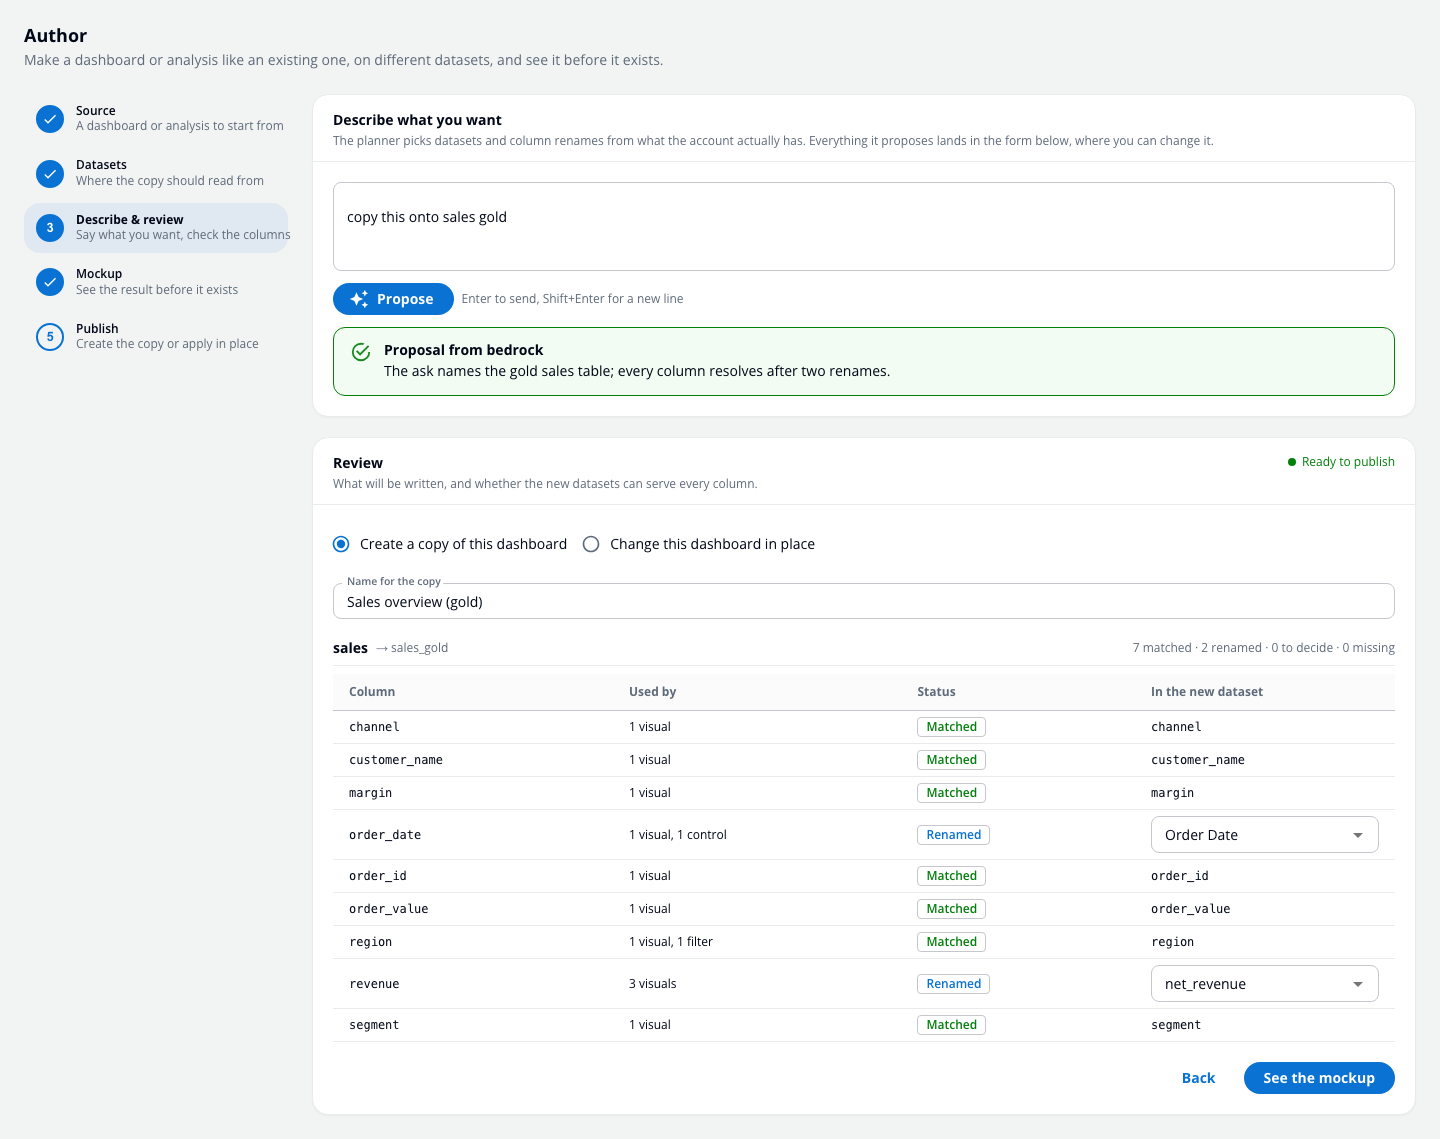
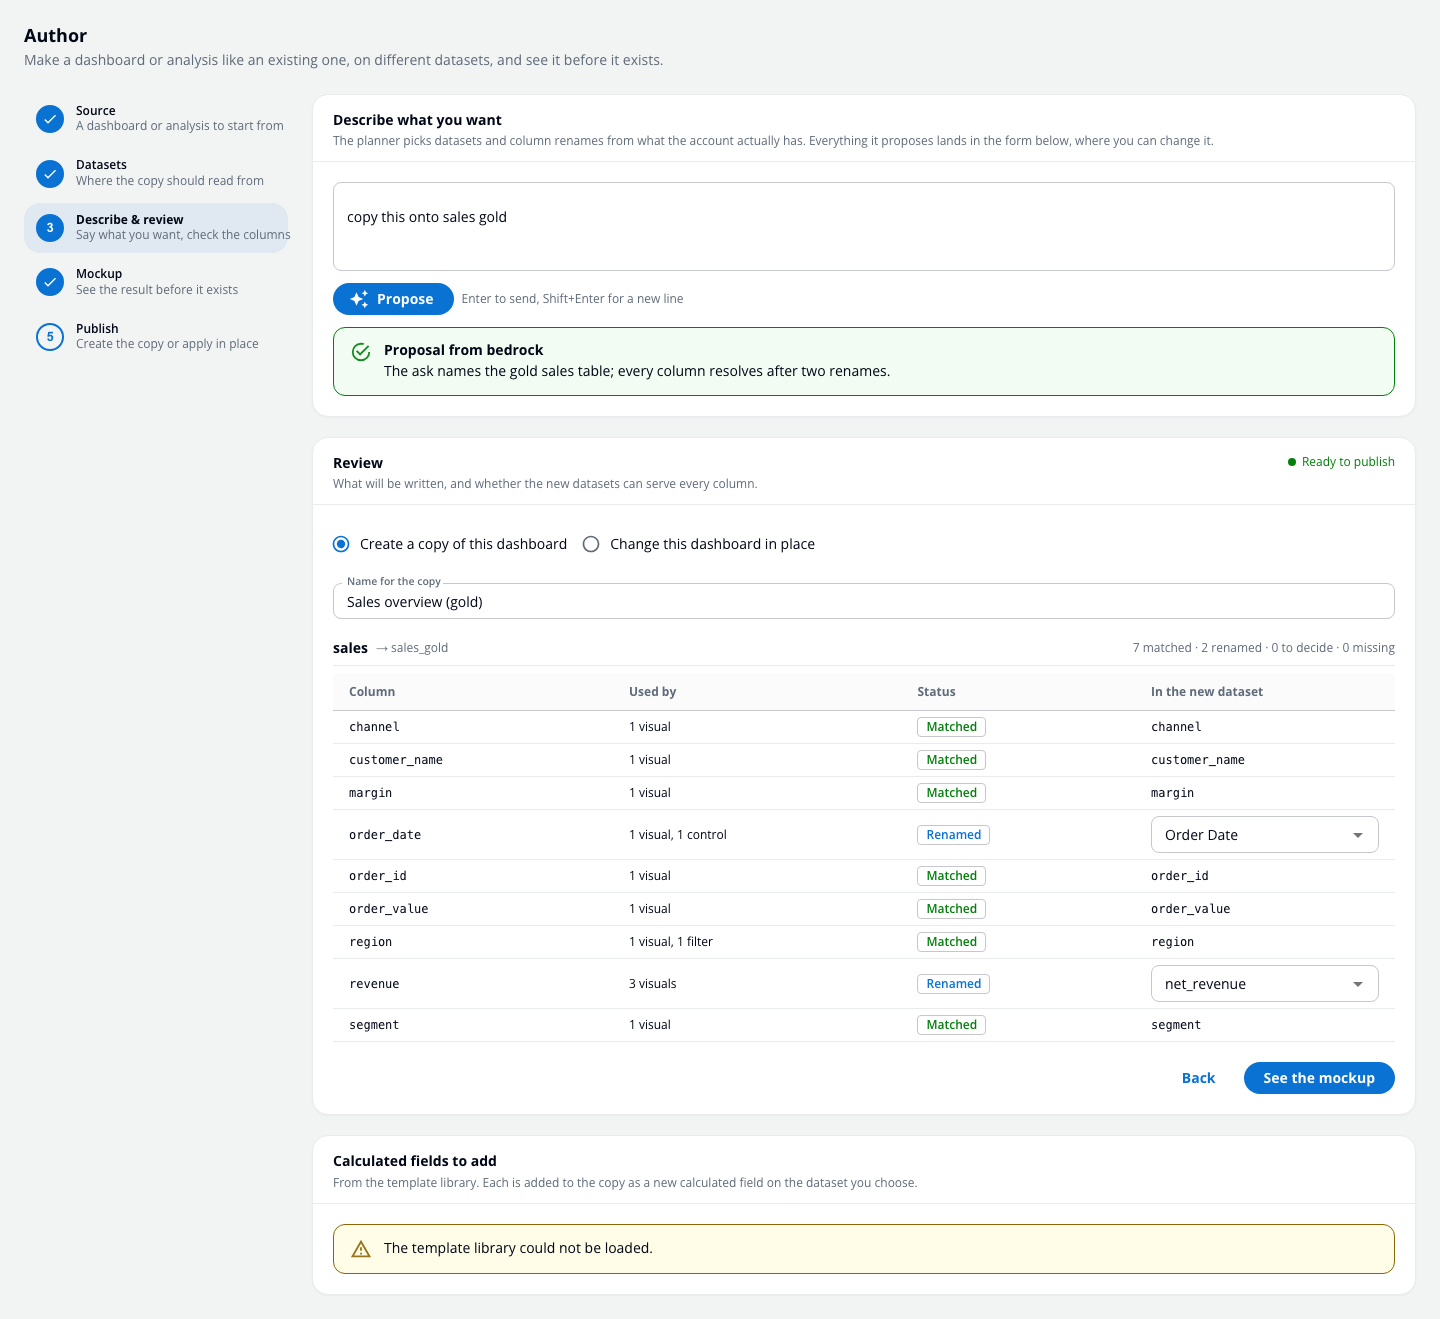
wip(smus-catalog): README catalog section and screenshots

diff --git a/README.md b/README.md
@@ -51,6 +51,19 @@ Any dashboard or analysis renders as a wireframe from its cached definition: she
 
 The portal reads the published catalog of a SMUS (DataZone) domain: each listing with its owning project, its Glue table and columns from the listing's metadata forms, and the QuickSight datasets already reading it. Settings choose which projects count and, optionally, a database-name pattern for the published layer. From a listing with no dataset yet, the portal can create one through an existing data source, copying permissions from a reference dataset so it has an audience. This is the direction the portal is heading: more of what you do here will start from what SMUS publishes.
 
+### Catalog: SMUS first, QuickSight on top
+
+The catalog shows only assets published in the SMUS projects chosen in Settings, one project at a time, since everything in SMUS is per project. SMUS owns the business metadata and the portal shows it read-only: glossary terms, metadata forms, descriptions, the Glue table and its columns. The portal adds what only QuickSight knows:
+
+- the datasets reading each published asset, and their fields;
+- calculated fields with their expressions, lineage in both directions (what an expression reads, and which calculated fields read it), and a clickable lineage graph;
+- where every field is used, down to the visual;
+- **conflicts**: the same calculated field defined with different expressions across dashboards and analyses, with each variant's sources, so a person can decide which is canonical;
+- a link back to the SMUS column for plain fields, and a portal note only for calculated fields, because SMUS has no home for those;
+- a **template library** of calculated fields. Save one from the catalog and Author adds it to the copies it creates.
+
+![Catalog](docs/screenshots/catalog.png)
+
 ### Settings
 
 Configuration lives in DynamoDB with a fallback to the Lambda's environment variables, so a fresh deployment works from env alone and values move over one at a time. Every setting shows where its value comes from. Secrets stay in the environment.
@@ -71,7 +84,6 @@ Configuration lives in DynamoDB with a fallback to the Lambda's environment vari
 - **Data lineage** - dataset, data source and dashboard/analysis relationships, including composite datasets and transitive dependencies
 - **Activity analytics** - CloudTrail-derived view counts and viewer history, dataset refresh history, per-user activity
 - **Tags & permissions** - browse and edit tags, inspect asset permissions, filter any asset page by a user's access
-- **Data catalog** - a field-level index across datasets and dashboards (early; the SMUS catalog is where this is going)
 
 ![Portal layout](docs/screenshots/layout.png)
 
@@ -234,6 +246,7 @@ Contract-first via OpenAPI: `shared/schemas/api.openapi.yaml` defines every endp
 - `/api/authoring/*` - definition datasets, plan, preview, propose (planner), apply
 - `/api/smus/assets` - published SMUS assets with their linked datasets; create a dataset from one
 - `/api/settings` - stored settings with their sources; the SMUS project list
+- `/api/data-catalog/smus` - the SMUS-first catalog; `/api/data-catalog/templates/calculated-fields` - the template library
 - `/api/assets`, `/api/export/{assetType}/{assetId}` — asset listings and raw definitions
 - `/api/export`, `/api/jobs/*` — export jobs, status, logs, results, stop
 - `/api/lineage`, `/api/catalog` — lineage graph and field catalog
